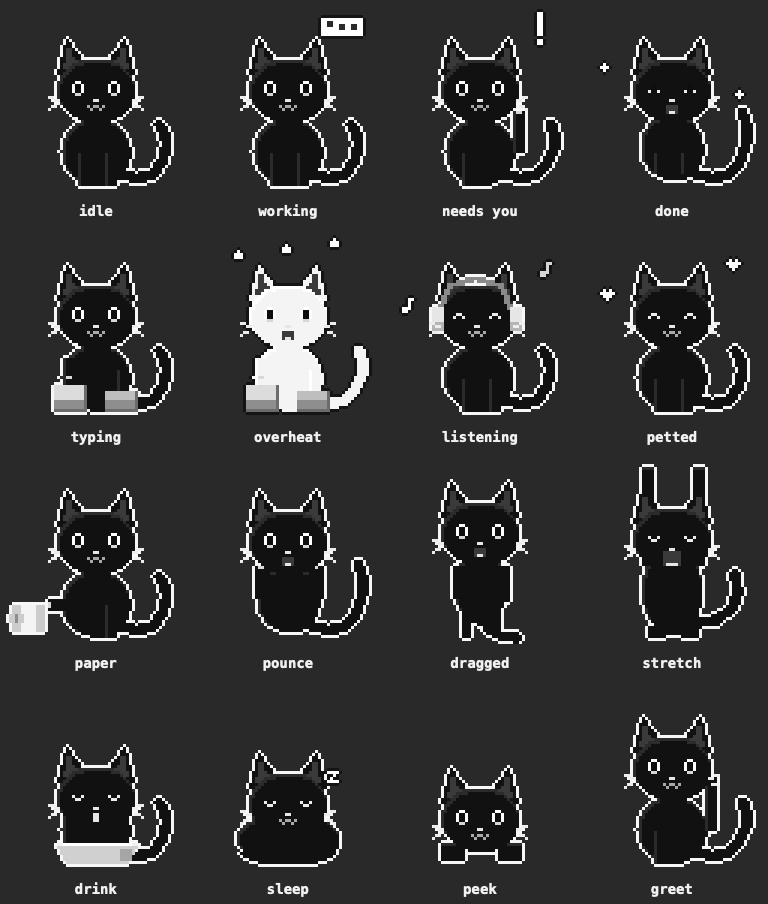
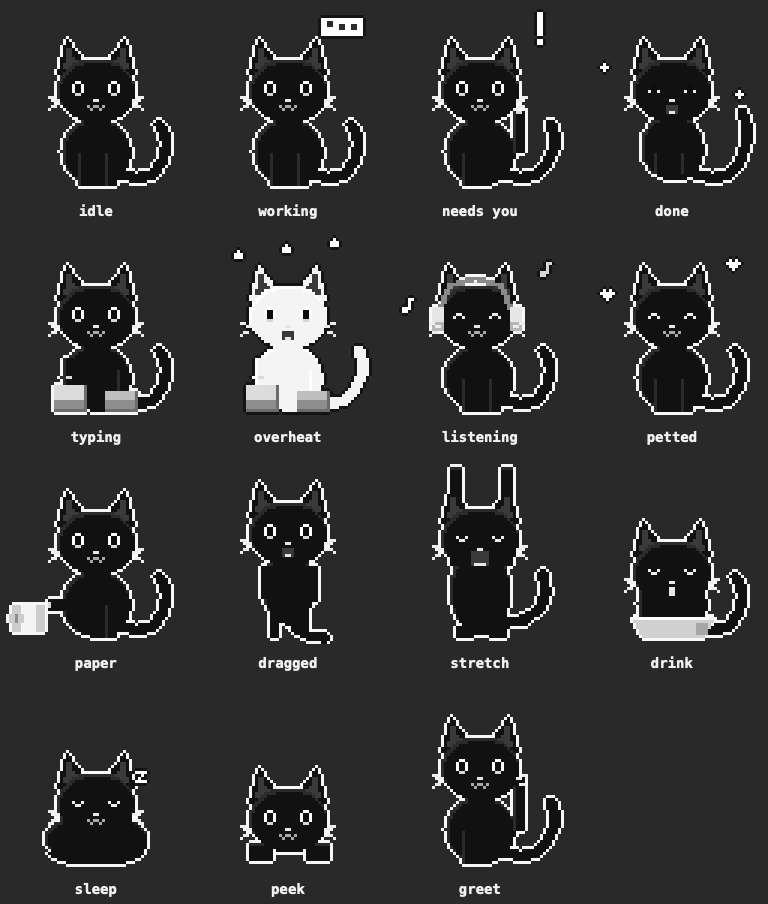
Gravity: the cat always falls back to the bottom of the screen; remove hunting mode

diff --git a/Sources/YomanApp/CompanionController.swift b/Sources/YomanApp/CompanionController.swift
@@ -106,7 +106,6 @@ final class CompanionController: NSObject {
     private var lastDXSign = 0
     private var petting = false
     private var petTimer: Timer?
-    private var lastPounce: CFTimeInterval = -100
 
     private(set) var reminder: Reminder?
     private var reminderTimer: Timer?
@@ -128,8 +127,8 @@ final class CompanionController: NSObject {
     private var lastSample: (p: NSPoint, t: CFTimeInterval)?
     private var dragVelocity = CGVector.zero
     private var throwVelocity = CGVector.zero
-    /// Where a pounce lands (its starting height); nil lets a throw fall to the bottom of the screen.
-    private var landY: CGFloat?
+    /// True while the cat is in the air after being dropped or thrown; it always falls to the screen floor.
+    private var falling = false
     private var sx = Spring(1), sy = Spring(1), rot = Spring(0, stiffness: 120, damping: 6.5)
     /// Point (relative to the cat's bottom-center anchor, y up) that stays fixed while scaling/rotating:
     /// the grab point while dragging, so the cat hangs and stretches from where you hold it.
@@ -267,7 +266,7 @@ final class CompanionController: NSObject {
         return sleeping ? "sleep" : "idle"
     }
 
-    /// Re-evaluates which state should show. One-shots (greet, done, pounce, blink) finish first unless
+    /// Re-evaluates which state should show. One-shots (greet, done, blink) finish first unless
     /// something more important starts.
     private func refresh() {
         let base = baseState()
@@ -645,9 +644,9 @@ final class CompanionController: NSObject {
         }
     }
 
-    // MARK: Cursor: eyes, click-through, petting, hunting
+    // MARK: Cursor: eyes, click-through, petting
 
-    /// Battery saver: no eye tracking, hunting or state-change pops (click-through and petting still work).
+    /// Battery saver: no eye tracking or state-change pops (click-through and petting still work).
     var saver = false {
         didSet {
             guard saver != oldValue, saver else { return }
@@ -672,9 +671,8 @@ final class CompanionController: NSObject {
         if let last = lastCursor {
             let dt = now - last.t
             if dt > 0, dt < 0.5 {
-                let dx = p.x - last.p.x, dy = p.y - last.p.y
+                let dx = p.x - last.p.x
                 detectPetting(dx: dx, over: over && artY(p) < 44, now: now)
-                if !saver { detectHunt(p, speed: hypot(dx, dy) / dt, now: now) }
             }
         }
         lastCursor = (p, now)
@@ -719,20 +717,6 @@ final class CompanionController: NSObject {
         petting = false
         reversals.removeAll()
         refresh()
-    }
-
-    /// A fast cursor nearby makes the cat crouch, wiggle and pounce toward it.
-    private func detectHunt(_ p: NSPoint, speed: CGFloat, now: CFTimeInterval) {
-        guard Prefs.hunting, speed > 2200, now - lastPounce > 6, currentState == "idle", oneShot == nil,
-              !dragging, !peeking else { return }
-        let o = panel.frame.origin
-        let center = NSPoint(x: o.x + panelSize.width / 2, y: o.y + floorY + charSize.height / 2)
-        let dist = hypot(p.x - center.x, p.y - center.y)
-        guard dist < 340, dist > charSize.width * 0.6 else { return }
-        lastPounce = now
-        playOneShot("pounce")
-        hop(height: 13 * scale, duration: 0.4, delay: 0.4)
-        Sounds.play(Sounds.mrrp)
     }
 
     private func updateEyes(toward p: NSPoint) {
@@ -825,16 +809,26 @@ final class CompanionController: NSObject {
         dragging = false
         let recent = lastSample.map { CACurrentMediaTime() - $0.t < 0.08 } ?? false
         let speed = hypot(dragVelocity.dx, dragVelocity.dy)
-        landY = nil
         if recent, speed > 150 {
             let k = min(1, 3000 / speed)
             throwVelocity = CGVector(dx: dragVelocity.dx * k, dy: dragVelocity.dy * k)
         }
         sx.target = 1; sy.target = 1; rot.target = 0
-        sy.velocity -= 4  // land with a squash
-        sx.velocity += 3
+        // Wherever it's let go, it drops to the floor (the bottom of the screen) under gravity.
+        falling = !peeking
+        if !falling {
+            sy.velocity -= 4  // already on the floor: just land with a squash
+            sx.velocity += 3
+        }
         refresh()
         startPhysics()
+    }
+
+    /// Panel y at which the cat stands on the bottom of the screen it's on.
+    private func floorOrigin(_ o: NSPoint) -> CGFloat {
+        let charRect = NSRect(x: o.x + charOriginX, y: o.y + floorY, width: charSize.width, height: charSize.height)
+        let screen = NSScreen.screens.first { $0.visibleFrame.intersects(charRect) } ?? NSScreen.main
+        return (screen?.visibleFrame.minY ?? 0) - floorY
     }
 
     private func clicked() {
@@ -879,34 +873,37 @@ final class CompanionController: NSObject {
             sy.target = 1.22 + stretchY - stretchX * 0.6
             // Shaking sideways swings it like a pendulum around the grab point.
             rot.target = max(-0.45, min(0.45, vx / 2600))
-        } else if throwVelocity != .zero {
+        } else if falling || throwVelocity != .zero {
             var o = panel.frame.origin
             o.x += throwVelocity.dx * dt
             o.y += throwVelocity.dy * dt
             let f = pow(0.03, dt)
             throwVelocity = CGVector(dx: throwVelocity.dx * f, dy: throwVelocity.dy * f)
-            // A little gravity so pounces and throws land.
-            throwVelocity.dy -= 1800 * dt
-            var (clamped, hitX, hitY) = clampOrigin(o)
-            if let floor = landY, clamped.y < floor {
-                clamped.y = floor
-                hitY = true
-            }
+            throwVelocity.dy -= 2600 * dt  // gravity
+            let (clamped, hitX, hitY) = clampOrigin(o)
             if hitX { throwVelocity.dx *= -0.45; sx.velocity -= 3 }
-            if hitY {
-                let landing = throwVelocity.dy < 0
-                throwVelocity.dy *= landing ? -0.25 : -0.45
-                sy.velocity -= 3
-                if landing, abs(throwVelocity.dy) < 120 { throwVelocity.dy = 0 }
+            let onFloor = clamped.y <= floorOrigin(clamped) + 0.5
+            if hitY, throwVelocity.dy > 0 { throwVelocity.dy *= -0.45 }  // bumped the top edge
+            if onFloor, throwVelocity.dy < 0 {
+                let impact = -throwVelocity.dy
+                throwVelocity.dy = impact > 260 ? impact * 0.28 : 0  // small bounce, then rest
+                sy.velocity -= min(5, 1.5 + impact / 500)  // squash on landing
+                sx.velocity += min(4, 1 + impact / 650)
             }
             panel.setFrameOrigin(clamped)
-            if hypot(throwVelocity.dx, throwVelocity.dy) < 15 { throwVelocity = .zero }
+            if onFloor, throwVelocity.dy == 0 {
+                throwVelocity.dx *= pow(0.0005, dt)  // floor friction
+                if abs(throwVelocity.dx) < 15 {
+                    throwVelocity = .zero
+                    falling = false
+                }
+            }
         }
 
         sx.step(dt); sy.step(dt); rot.step(dt)
         applyTransform()
 
-        if !dragging, throwVelocity == .zero, sx.settled, sy.settled, rot.settled {
+        if !dragging, !falling, throwVelocity == .zero, sx.settled, sy.settled, rot.settled {
             sx.snap(); sy.snap(); rot.snap()
             if sx.value == 1, sy.value == 1 { pivot = .zero }
             applyTransform()
@@ -921,6 +918,8 @@ final class CompanionController: NSObject {
     // MARK: Debug
 
     /// Freezes a mid-drag pose (grab at the head, swung right) so the pivot math can be checked in a snapshot.
+    var panelY: Double { Double(panel.frame.origin.y) }
+
     func debugDragPose() {
         pivot = CGPoint(x: 0, y: charSize.height * 0.8)
         oneShot = nil
@@ -932,6 +931,11 @@ final class CompanionController: NSObject {
 
     func debugRelease() {
         sx.target = 1; sy.target = 1; rot.target = 0
+        // Lift it to mid-screen and let go, so the fall to the floor can be checked.
+        var o = panel.frame.origin
+        o.y = floorOrigin(o) + 400
+        panel.setFrameOrigin(o)
+        falling = !peeking
         refresh()
         startPhysics()
     }
@@ -1019,13 +1023,21 @@ final class CompanionController: NSObject {
         panel.setFrameOrigin(clampOrigin(panel.frame.origin).0)
     }
 
-    @objc private func screensChanged() { if !peeking { clampIntoScreen() } }
+    @objc private func screensChanged() {
+        guard !peeking else { return }
+        clampIntoScreen()
+        var o = panel.frame.origin
+        o.y = floorOrigin(o)
+        panel.setFrameOrigin(o)
+    }
 
     private func restoredOrigin() -> NSPoint {
         if let a = UserDefaults.standard.array(forKey: Self.originKey) as? [Double], a.count == 2 {
             let p = NSPoint(x: a[0], y: a[1])
             let charRect = NSRect(x: p.x + charOriginX, y: p.y + floorY, width: charSize.width, height: charSize.height)
-            if NSScreen.screens.contains(where: { $0.visibleFrame.intersects(charRect) }) { return p }
+            if NSScreen.screens.contains(where: { $0.visibleFrame.intersects(charRect) }) {
+                return NSPoint(x: p.x, y: floorOrigin(p))  // always start standing on the floor
+            }
         }
         return defaultOrigin()
     }

diff --git a/tools/make_cat.swift b/tools/make_cat.swift
@@ -90,7 +90,7 @@ final class Canvas {
 enum Body: Equatable { case sit, loaf, crouch, dangle, stretch(Int), peek, drink, air }
 enum Eyes { case open, half, closed, happy }
 enum Mouth { case none, meow, tongue, yawn }
-enum Paws: Equatable { case down, keysL, keysR, keysBoth, wave(Int), tucked, pounce, bat(Bool) }
+enum Paws: Equatable { case down, keysL, keysR, keysBoth, wave(Int), tucked, bat(Bool) }
 enum Extra { case bang(Bool), zzz(Int), dots(Int), hearts(Int), steam(Int), sparkle(Int), bowl, roll, keys(Int), headphones, notes(Int) }
 
 struct Pose {
@@ -217,10 +217,6 @@ func draw(_ p: Pose) -> Canvas {
             c.rect(43, top, 46, 50, fur.body)
             c.rect(43, top, 43, 50, fur.rim)
             c.set(44, top, C.bean); c.set(45, top, C.bean)
-        case .pounce:
-            c.rect(21, 38, 25, 48, fur.body)
-            c.rect(39, 38, 43, 48, fur.body)
-            for x in [22, 23, 40, 41] { c.set(x, 38, C.bean) }
         case .bat(let out):
             leg(35, top: 51, bottom: 61)
             if out {
@@ -412,12 +408,6 @@ let states: [StateDef] = [
     StateDef(name: "petted", poses: (0..<4).map { i in P { $0.eyes = .happy; $0.bob = i % 2; $0.lean = [0, 1, 0, -1][i]
                  $0.tail = sway[i * 2]; $0.extras = [.hearts(i)] } },
              durations: [200, 200, 200, 200], loop: true, eyes: false),
-    StateDef(name: "pounce",
-             poses: [P { $0.body = .crouch; $0.lean = -1; $0.tail = -1 }, P { $0.body = .crouch; $0.lean = 1; $0.tail = 1 },
-                     P { $0.body = .crouch; $0.lean = -1; $0.tail = -1 }, P { $0.body = .crouch; $0.lean = 1; $0.tail = 1 },
-                     P { $0.body = .air; $0.paws = .pounce; $0.mouth = .meow; $0.tail = 2 },
-                     P { $0.bob = 2; $0.paws = .tucked }],
-             durations: [100, 100, 100, 100, 380, 180], loop: false, next: "idle"),
     StateDef(name: "stretch",
              poses: [P { $0.body = .stretch(0); $0.eyes = .closed }, P { $0.body = .stretch(1); $0.eyes = .closed },
                      P { $0.body = .stretch(2); $0.eyes = .closed }, P { $0.body = .stretch(2); $0.eyes = .closed; $0.mouth = .yawn },

diff --git a/Sources/YomanApp/Prefs.swift b/Sources/YomanApp/Prefs.swift
@@ -8,7 +8,6 @@ enum Prefs {
         static let sounds = "yoman.sounds"
         static let typing = "yoman.typing"
         static let scrollPaper = "yoman.scrollPaper"
-        static let hunting = "yoman.hunting"
         static let petting = "yoman.petting"
         static let stretchOn = "yoman.stretchOn"
         static let stretchMinutes = "yoman.stretchMinutes"
@@ -29,7 +28,7 @@ enum Prefs {
     static func register() {
         UserDefaults.standard.register(defaults: [
             Key.name: "Jagoan", Key.size: 2, Key.sounds: true, Key.typing: true, Key.scrollPaper: true,
-            Key.hunting: true, Key.petting: true, Key.stretchOn: true, Key.stretchMinutes: 50,
+            Key.petting: true, Key.stretchOn: true, Key.stretchMinutes: 50,
             Key.waterOn: true, Key.waterMinutes: 60, Key.peek: true, Key.focusMinutes: 25,
             Key.breakMinutes: 5, Key.longBreakMinutes: 15, Key.pinned: "", Key.music: true, Key.songTitle: true,
             Key.sleepSeconds: 15, Key.batterySaver: true,
@@ -45,7 +44,6 @@ enum Prefs {
     static var sounds: Bool { d.bool(forKey: Key.sounds) }
     static var typing: Bool { d.bool(forKey: Key.typing) }
     static var scrollPaper: Bool { d.bool(forKey: Key.scrollPaper) }
-    static var hunting: Bool { d.bool(forKey: Key.hunting) }
     static var petting: Bool { d.bool(forKey: Key.petting) }
     static var stretchOn: Bool { d.bool(forKey: Key.stretchOn) }
     static var stretchMinutes: Int { max(5, d.integer(forKey: Key.stretchMinutes)) }

diff --git a/Sources/YomanApp/SettingsView.swift b/Sources/YomanApp/SettingsView.swift
@@ -18,7 +18,6 @@ struct SettingsView: View {
     @AppStorage(Prefs.Key.sounds) private var sounds = true
     @AppStorage(Prefs.Key.typing) private var typing = true
     @AppStorage(Prefs.Key.scrollPaper) private var scrollPaper = true
-    @AppStorage(Prefs.Key.hunting) private var hunting = true
     @AppStorage(Prefs.Key.petting) private var petting = true
     @AppStorage(Prefs.Key.stretchOn) private var stretchOn = true
     @AppStorage(Prefs.Key.stretchMinutes) private var stretchMinutes = 50
@@ -58,10 +57,9 @@ struct SettingsView: View {
                     }
                 }
                 Toggle("Unroll paper when I scroll", isOn: $scrollPaper)
-                Toggle("Hunt fast cursors", isOn: $hunting)
                 Toggle("Purr when petted (wiggle the cursor over its head)", isOn: $petting)
                 Toggle("Peek from the screen edge in full screen", isOn: $peek)
-                Toggle("Battery saver on battery / Low Power Mode (no eye tracking or hunting)", isOn: $batterySaver)
+                Toggle("Battery saver on battery / Low Power Mode (no eye tracking)", isOn: $batterySaver)
                 Toggle("Vibe to Apple Music / Spotify", isOn: $music)
                 Toggle("Show the song title when a track starts", isOn: $songTitle)
                     .disabled(!music)

diff --git a/tools/make_demo.swift b/tools/make_demo.swift
@@ -99,14 +99,14 @@ precondition(CGImageDestinationFinalize(gif))
 // MARK: State grid
 
 let order = ["idle", "working", "needs_you", "done", "typing", "overheat", "listening", "petted",
-             "paper", "pounce", "dragged", "stretch", "drink", "sleep", "peek", "greet"]
+             "paper", "dragged", "stretch", "drink", "sleep", "peek", "greet"]
 let gs = 3, cell = cw * gs, cols = 4, labelH = 34
 let rows = (order.count + cols - 1) / cols
 let GW = cols * cell, GH = rows * (cell + labelH)
 let grid = context(GW, GH)
 for (k, state) in order.enumerated() where spec.states[state] != nil {
     let col = k % cols, row = k / cols
-    let f = state == "done" ? 2 : state == "pounce" ? 4 : state == "stretch" ? 3 : 0
+    let f = state == "done" ? 2 : state == "stretch" ? 3 : 0
     drawCat(grid, state, min(f, spec.states[state]!.frames.count - 1), x: col * cell, yTop: row * (cell + labelH),
             scale: gs, canvasH: GH)
     text(grid, state.replacingOccurrences(of: "_", with: " "), centerX: CGFloat(col * cell + cell / 2),

diff --git a/Sources/YomanApp/AppDelegate.swift b/Sources/YomanApp/AppDelegate.swift
@@ -248,7 +248,7 @@ final class AppDelegate: NSObject, NSApplicationDelegate, NSMenuDelegate {
                                      "accessibilityTrusted": AXIsProcessTrusted(), "listenAccess": CGPreflightListenEventAccess(),
                                      "keyTap": keys.isRunning,
                                      "typingPref": Prefs.typing, "visible": companion.isVisible,
-                                     "state": companion.currentState]
+                                     "state": companion.currentState, "y": companion.panelY]
             if let d = try? JSONSerialization.data(withJSONObject: st, options: [.sortedKeys]) {
                 try? d.write(to: YomanPaths.logDir.appendingPathComponent("status.json"))
             }

diff --git a/README.md b/README.md
@@ -14,15 +14,14 @@ Native Swift (AppKit + Core Animation), about 1 MB on disk, ~19 MB of memory and
 |---|---|
 | **Claude Code** | Thinks along while Claude works, raises a paw and meows when Claude needs you (click the cat to jump to Claude), hops when a task is done. Works with the Claude desktop app and the CLI. |
 | **Eyes follow** | Pupils track your cursor. |
-| **Mochi drag** | Grab it anywhere: it stretches from where you hold it and swings when you shake it. Throw it and it lands. |
-| **Hunting** | Move the cursor fast nearby and it crouches, wiggles and pounces straight up. |
+| **Mochi drag** | Grab it anywhere: it stretches from where you hold it and swings when you shake it. Let go anywhere and it falls back to the bottom of the screen. |
 | **Petting** | Wiggle the cursor over its head and it purrs. |
 | **Typing** | Kneads keyboard keys while you type; turns white-hot with steam when you type too fast. |
-| **Scrolling** | Unrolls a paper roll. |
+| **Scrolling** | Bats a paper roll. |
 | **Music** | Puts on headphones and bobs along to Apple Music or Spotify, and shows the song title. |
 | **Reminders** | Grows big to stretch with you, drinks water with you, Pomodoro timer, a message at a time you pick, and a note pinned above its head. |
 | **Peek mode** | Peeks from the screen edge while a full-screen video plays. |
-| **Sleep** | Curls up after 10 minutes without input. |
+| **Sleep** | Curls up after 15 seconds without input (configurable). |
 
 Toggle it with **⌥⌘F** or from the cat icon in the menu bar (Settings, Pomodoro, reminders, pinned message).
 
